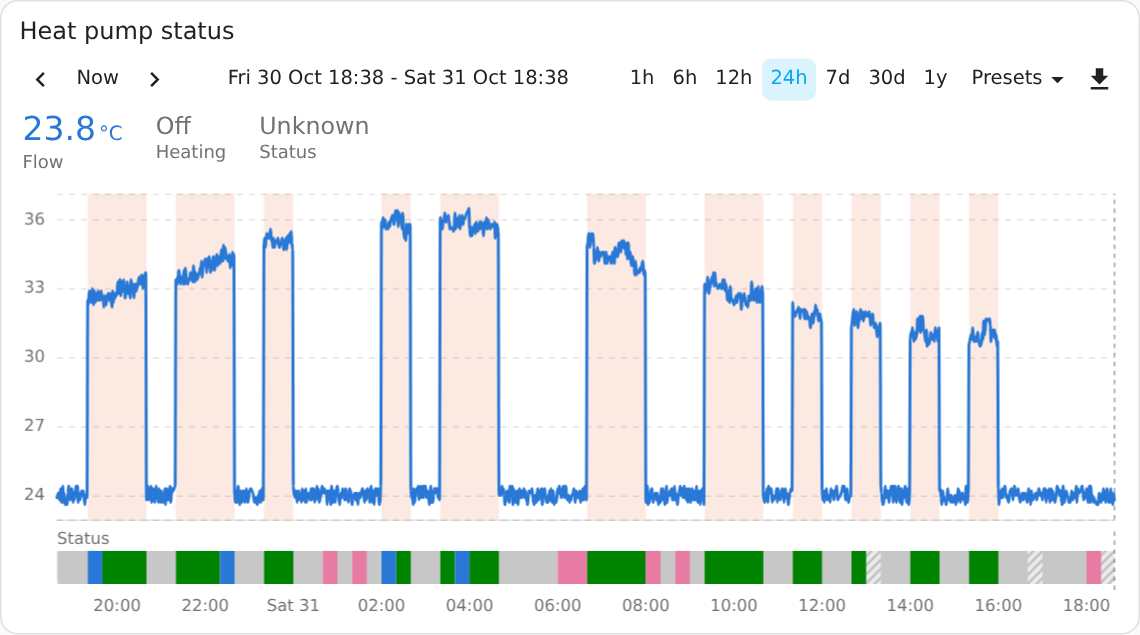
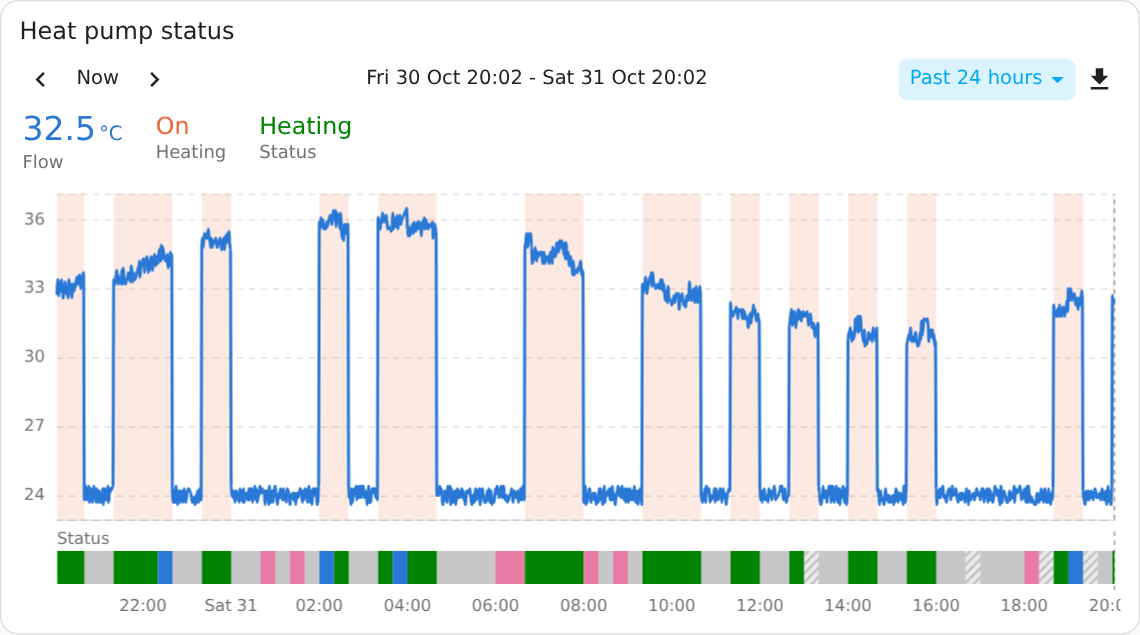
0.7.0: quick ranges always in the Presets menu; licence GPL-3.0-only
The quick ranges (1h, 6h ... 1y) now always sit at the top of the
Presets menu, at any card width and with the dates on or off, and the
menu button names the window picked. The editor calls them Quick ranges.
Screenshots retaken. The licence is now GPL-3.0-only.

diff --git a/src/chart-explorer-card.ts b/src/chart-explorer-card.ts
@@ -52,7 +52,7 @@ import { buttonLabel, menuLabel, presetName, t, type StringKey } from './localiz
 import { icon } from './ui/icons';
 import { cardStyles } from './ui/styles';
 
-const VERSION = '0.6.2';
+const VERSION = '0.7.0';
 // The chart's inner edge and ECharts' gap between numbers and the plot, in pixels.
 const GRID_EDGE = 4;
 const LABEL_MARGIN = 8;
@@ -151,7 +151,7 @@ export class ChartExplorerCard extends LitElement {
   private _customFrom = '';
   private _customTo = '';
   private _customError?: string;
-  /** 0 full toolbar, 1 two-line label, 2 quick ranges in the menu, 3 label may be cut short. */
+  /** 0 full toolbar, 1 two-line label, 2 label may be cut short. */
   private _toolbarLevel = 0;
   private readonly _levelWidths: number[] = [];
 
@@ -1532,14 +1532,14 @@ export class ChartExplorerCard extends LitElement {
 
   /**
    * Keeps the toolbar on one row. When it does not fit, the label first goes
-   * onto two lines, then the quick ranges move into the menu, then the label
-   * may be cut short. Each step remembers the width it needed, to step back.
+   * onto two lines, then it may be cut short. Each step remembers the width it
+   * needed, to step back.
    */
   private _checkToolbar(): void {
     const bar = this.renderRoot.querySelector<HTMLElement>('.toolbar');
     if (!bar || !bar.clientWidth) return;
     const available = bar.clientWidth;
-    if (bar.scrollWidth > available + 1 && this._toolbarLevel < 3) {
+    if (bar.scrollWidth > available + 1 && this._toolbarLevel < 2) {
       this._levelWidths[this._toolbarLevel] = bar.scrollWidth;
       this._toolbarLevel++;
       this.requestUpdate();
@@ -1759,7 +1759,7 @@ export class ChartExplorerCard extends LitElement {
     const bottom = config.toolbarPosition === 'bottom';
     const show = config.toolbar;
     const anyControl =
-      show.arrows || show.now || show.quickRanges || show.presets || show.download || config.showRangeLabel;
+      show.arrows || show.now || show.presets || show.download || config.showRangeLabel;
     const toolbar = anyControl && config.toolbarPosition !== 'off' ? this._renderToolbar(config) : nothing;
     const values = this._renderValues(config);
     const below = config.valuesPlacement === 'below';
@@ -1798,16 +1798,16 @@ export class ChartExplorerCard extends LitElement {
     const shown = this._preview ?? w;
     const inclusive = !this._preview && spec ? labelEndIsInclusive(spec) : false;
     const [from, to] = shown ? this._times.rangeParts(shown, inclusive, Date.now()) : ['', ''];
-    // The toolbar buttons and the menu may list lengths and presets alike.
-    const activeMenuItem = config.presets.find((item) => this._isActive(item));
-    const activePreset = spec ? presetOf(spec) : undefined;
-    const menuText = activeMenuItem ? menuLabel(activeMenuItem) : activePreset ? presetName(activePreset) : t('presets');
     const level = this._toolbarLevel;
     const show = config.toolbar;
-    // Without the menu, quick ranges cannot fold into it; they scroll sideways instead.
-    const classes =
-      `toolbar${level >= 1 ? ' stacked' : ''}${this._quickInMenu(config) ? ' folded' : ''}` +
-      `${level >= 3 ? ' shrink' : ''}${show.presets ? '' : ' no-menu'}`;
+    // The menu holds the quick ranges and the entries, which may list lengths and presets alike;
+    // its button names the window picked from either.
+    const activeMenuItem = [...(show.quickRanges ? config.quickRanges : []), ...config.presets].find((item) =>
+      this._isActive(item),
+    );
+    const activePreset = spec ? presetOf(spec) : undefined;
+    const menuText = activeMenuItem ? menuLabel(activeMenuItem) : activePreset ? presetName(activePreset) : t('presets');
+    const classes = `toolbar${level >= 1 ? ' stacked' : ''}${level >= 2 ? ' shrink' : ''}`;
     return html`
       <div class="toolbar-wrap">
         <div class=${classes}>
@@ -1827,9 +1827,6 @@ export class ChartExplorerCard extends LitElement {
                 <span>${from} -</span> <span>${to}</span>
               </button>`
             : html`<span class="label placeholder" aria-hidden="true"><span>${from} -</span> <span>${to}</span></span>`}
-          ${show.quickRanges
-            ? html`<div class="quick">${config.quickRanges.map((item) => this._renderButton(item))}</div>`
-            : nothing}
           ${show.presets
             ? html`<button
                 class="with-icon ${activeMenuItem || activePreset ? 'active' : ''}"
@@ -1860,31 +1857,24 @@ export class ChartExplorerCard extends LitElement {
     `;
   }
 
-  private _renderButton(item: RangeItem, inMenu = false) {
+  /** A quick range at the top of the Presets menu, such as "24h". */
+  private _renderButton(item: RangeItem) {
     return html`<button
       class=${this._isActive(item) ? 'active' : ''}
-      role=${inMenu ? 'menuitem' : nothing}
+      role="menuitem"
       @click=${() => this._applySpec(rangeItemSpec(item), true)}
     >
       ${buttonLabel(item)}
     </button>`;
   }
 
-  /**
-   * The quick ranges sit in the Presets menu when the toolbar has no room for
-   * them, and always while the dates are hidden, so their space stays empty.
-   */
-  private _quickInMenu(config: CardConfig): boolean {
-    return config.toolbar.presets && (this._toolbarLevel >= 2 || !config.showRangeLabel);
-  }
-
   private _renderPresetMenu(config: CardConfig) {
     return html`
       <div class="menu" role="menu">
-        ${this._quickInMenu(config) && config.toolbar.quickRanges && config.quickRanges.length
+        ${config.toolbar.quickRanges && config.quickRanges.length
           ? html`<div class="menu-top">
               <div class="section">${t('quick_ranges')}</div>
-              <div class="chips">${config.quickRanges.map((item) => this._renderButton(item, true))}</div>
+              <div class="chips">${config.quickRanges.map((item) => this._renderButton(item))}</div>
             </div>`
           : nothing}
         <div class="menu-list">

diff --git a/src/editor/schema.ts b/src/editor/schema.ts
@@ -338,7 +338,7 @@ export const LABELS: Record<string, string> = {
   show_arrows: 'Previous and next arrows',
   show_now_button: 'Now button',
   show_range_label: 'Dates and times',
-  show_quick_ranges: 'Toolbar buttons (1h, 6h…)',
+  show_quick_ranges: 'Quick ranges (1h, 6h…)',
   show_presets_menu: 'Presets menu',
   show_download: 'Download button',
   drag_action: 'Dragging the chart',
@@ -393,15 +393,16 @@ export const HELPERS: Record<string, string> = {
   timeline_labels: 'The state, such as Standby, inside each part of a strip that is wide enough.',
   type: 'Automatic draws numbers as lines (bars in a bar chart) and text or on/off states, such as a heat pump status, as a timeline strip under the chart. A band shades the chart behind the lines while the entity is on.',
   on_states: 'Leave empty to shade every state except off, idle, standby and the like.',
-  default_range: 'The window the card opens with: any toolbar button, menu entry or preset.',
+  default_range: 'The window the card opens with: any quick range, menu entry or preset.',
   toolbar_position: 'Where the time controls and the download button sit.',
   height: 'Height of the chart area in pixels, without the toolbar and values.',
   values_placement: 'Above or below the chart.',
   value_position: 'Where each value sits relative to its entity name.',
   name_align: 'How each name lines up with its value when one sits above the other.',
   faded_opacity: 'How visible a line stays after you tap its name.',
-  show_range_label: 'The window shown, such as Mon 26 Oct 00:00 - Sun 1 Nov 23:59. Turned off, its space stays empty for a clean look, and the toolbar buttons (1h, 6h…) move to the top of the Presets menu. Custom… stays in that menu too.',
-  show_presets_menu: 'Also holds Custom… and the toolbar buttons when the card is narrow or the dates and times are off. Without it they stay in the toolbar and scroll sideways.',
+  show_range_label: 'The window shown, such as Mon 26 Oct 00:00 - Sun 1 Nov 23:59. Turned off, its space stays empty for a clean look; Custom… stays in the Presets menu.',
+  show_quick_ranges: 'At the top of the Presets menu.',
+  show_presets_menu: 'Holds the quick ranges (1h, 6h…), the menu entries and Custom…; turned off, none of them are shown.',
   show_download: 'CSV and PNG export.',
   drag_action: 'Pinch, or Ctrl + mouse wheel, zooms either way, and Shift + drag selects a part. Double-click or double-tap goes back to the window picked in the toolbar.',
   values_align: 'How the entities spread across the card. Spread puts the first and last at the edges; evenly spaced leaves the same room around each.',

diff --git a/src/editor/editor.ts b/src/editor/editor.ts
@@ -247,7 +247,7 @@ export class ChartExplorerCardEditor extends LitElement {
           ${this._form.chart_type === 'bar' || this._entities.some((item) => typeof item !== 'string' && item.type === 'bar')
             ? this._group('bars', 'Bars', this._settingsForm(BARS_SCHEMA))
             : nothing}
-          ${this._group('toolbar-buttons', 'Toolbar buttons', this._renderRangeList('quick_ranges'))}
+          ${this._group('toolbar-buttons', 'Quick ranges', this._renderRangeList('quick_ranges'))}
           ${this._group('menu-entries', 'Menu entries', this._renderRangeList('presets'))}
           ${this._group('toolbar', 'Toolbar', this._settingsForm(LAYOUT_SCHEMA))}
         `;
@@ -301,7 +301,7 @@ export class ChartExplorerCardEditor extends LitElement {
     `;
   }
 
-  // ---- Toolbar buttons and menu entries ----
+  // ---- Quick ranges and menu entries ----
 
   private _lists(key: RangeListKey) {
     const unusedKey = key === 'quick_ranges' ? 'unused_quick_ranges' : 'unused_presets';
@@ -381,7 +381,7 @@ export class ChartExplorerCardEditor extends LitElement {
       <div class="range-list" data-list=${key}>
         <div class="list-help">
           ${key === 'quick_ranges'
-            ? 'Buttons in the toolbar, each a rolling window that ends now. Tap one to show or hide it.'
+            ? 'Buttons at the top of the Presets menu, each a rolling window that ends now. Tap one to show or hide it.'
             : 'Entries in the Presets menu, above Custom. Tap one to show or hide it. Next lengths run from now into the future, for forecasts.'}
           Lengths you add appear after these in a different shade; × deletes them.
         </div>

diff --git a/src/ui/styles.ts b/src/ui/styles.ts
@@ -104,16 +104,6 @@ export const cardStyles = css`
     overflow: hidden;
     text-overflow: ellipsis;
   }
-  .quick {
-    display: flex;
-    flex: none;
-  }
-  .quick button {
-    padding: 0 6px;
-  }
-  .folded .quick {
-    display: none;
-  }
 
   /* Menus and the custom range */
   .menu,
@@ -258,12 +248,6 @@ export const cardStyles = css`
   .stacked .label.placeholder {
     flex-direction: column;
     font-size: 12px;
-  }
-  .no-menu .quick {
-    flex: 0 1 auto;
-    min-width: 0;
-    overflow-x: auto;
-    scrollbar-width: none;
   }
   .pie-name {
     position: absolute;

diff --git a/docs/options.md b/docs/options.md
@@ -11,7 +11,7 @@ Edit the card from the dashboard editor like any built-in card. The editor has f
 | Tab | What it holds |
 |---|---|
 | Entities | A search box at the top adds an entity. Below it, the entities in order, each with its colour: drag the handle to reorder (or focus it and use the arrow keys), the pencil opens the entity's settings in one scroll, and the bin removes. The entity page shows the settings for how the entity is drawn (Draw as): line shape, type, width and fill for lines; the states that shade a band; a colour picker per state for timelines and bands (states from the last 30 days, and any you add); then name, colour, show in the values row, show the name, show unit, unit, decimal places, scale and the value drawn on long windows. |
-| General | Title, chart type, starting window and what dragging the chart does, then folding groups: Bars (length of each bar, stacking; shown for bar charts), Toolbar buttons (the seven standard lengths; tap to show or hide), Menu entries (the nine presets, the same way) and Toolbar (position top, bottom or off, and a switch for each control). Toolbar buttons add lengths with "Past [number] [unit] Add length"; menu entries choose Past or Next, so a length can run into the future ("Next day"). Added lengths follow the standard ones in an amber shade, switch on and off, and × deletes them. |
+| General | Title, chart type, starting window and what dragging the chart does, then folding groups: Bars (length of each bar, stacking; shown for bar charts), Quick ranges (the seven standard lengths at the top of the Presets menu; tap to show or hide), Menu entries (the nine presets, the same way) and Toolbar (position top, bottom or off, and a switch for each control). Quick ranges add lengths with "Past [number] [unit] Add length"; menu entries choose Past or Next, so a length can run into the future ("Next day"). Added lengths follow the standard ones in an amber shade, switch on and off, and × deletes them. |
 | Visual | Folding groups: values (above or below the chart, row alignment, value position, name alignment, value and name text size, space between values, show names), chart (faded line opacity, the now line, floating tooltip, rescaling), height and space inside the chart, timeline strips (strip height, names above the strips, states written inside), x-axis (time labels, their size, vertical grid lines) and y-axis (value labels, their size, units above the axes, starting at zero, horizontal grid lines). |
 | Advanced | Lightweight mode and animations, data sources, the value drawn on long windows for every entity, CSV export. Each setting has an explanation under it. |
 
@@ -30,15 +30,15 @@ The editor saves only what differs from the defaults, so the YAML stays short, a
 | `timeline_names` | `true` | The entity name above each strip. |
 | `timeline_labels` | `true` | The state written inside each part of a strip that is wide enough. |
 | `default_range` | `24h` | Window when the card opens: a quick range (`6h`, `7d`) or a preset (`today`, `this_week`, `last_month` …). |
-| `quick_ranges` | `[1h, 6h, 12h, 24h, 7d, 30d, 1y]` | Toolbar buttons: lengths (a number followed by `m`, `h`, `d`, `w`, `mo` or `y`, such as `45m` or `6d`) or presets. |
+| `quick_ranges` | `[1h, 6h, 12h, 24h, 7d, 30d, 1y]` | Quick ranges at the top of the Presets menu: lengths (a number followed by `m`, `h`, `d`, `w`, `mo` or `y`, such as `45m` or `6d`) or presets. |
 | `unused_quick_ranges`, `unused_presets` | none | Lengths you added in the editor and switched off; the editor keeps them so you can switch them on again. The card ignores them. |
 | `presets` | all nine presets | Menu entries, the same kinds as `quick_ranges`. A length with a plus sign, such as `+1d` ("Next day"), starts now and runs into the future, for forecasts. The presets are `today`, `yesterday`, `tomorrow`, `this_week`, `last_week`, `this_month`, `last_month`, `this_year` and `last_year`. |
 | `toolbar_position` | `top` | `top`, `bottom` or `off`. |
-| `show_range_label` | `true` | The dates and times in the middle of the toolbar. Turned off, their space stays empty, so nothing else moves into it, and the toolbar buttons (1h, 6h…) move to the top of the Presets menu at any card width. |
+| `show_range_label` | `true` | The dates and times in the middle of the toolbar. Turned off, their space stays empty, so nothing else moves into it. |
 | `show_arrows` | `true` | The previous and next arrows. |
 | `show_now_button` | `true` | The Now button. |
-| `show_quick_ranges` | `true` | The toolbar buttons (1h, 6h…). |
-| `show_presets_menu` | `true` | The Presets menu, which also holds Custom… and the toolbar buttons when the card is narrow or the dates and times are off. Without it they stay in the toolbar and scroll sideways. |
+| `show_quick_ranges` | `true` | The quick ranges (1h, 6h…) at the top of the Presets menu. |
+| `show_presets_menu` | `true` | The Presets menu, which holds the quick ranges, the menu entries and Custom…; turned off, none of them are shown. |
 | `show_download` | `true` | The download button. With every toolbar control off, the toolbar row goes. |
 | `drag_action` | `pan` | What dragging across the chart does: `pan` moves the time window, `zoom` selects a part to zoom into. |
 | `values_placement` | `above` | The values row `above` or `below` the chart. |

diff --git a/README.md b/README.md
@@ -9,7 +9,7 @@ A Home Assistant dashboard card for exploring history: lines, stacked areas, bar
 ## Features
 
 - **Eight ways to draw history:** lines, stacked areas, bars per hour, day, week or month, pie, donut, heatmaps of numbers or of states, and timeline strips or shaded bands for entities such as a heat pump status or a door.
-- **Time controls in one row:** buttons from 1 hour to 1 year, presets such as Today or Last month, previous and next, and a custom range.
+- **Time controls in one row:** previous and next, Now, and a Presets menu with quick ranges from 1 hour to 1 year, presets such as Today or Last month, and a custom range.
 - **Drag to move, pinch to zoom:** the card loads finer data as you zoom in; a double-tap goes back.
 - **Values that follow the cursor:** each entity's value sits above the chart in its colour; tap a name to fade that entity.
 - **Export:** a CSV of exactly what is shown, or a PNG with the title and legend.
@@ -46,7 +46,7 @@ A picture and an example for each: [Chart types](docs/chart-types.md).
 1. Download both files from the [latest release](https://github.com/corautem/chart-explorer-card/releases/latest): `chart-explorer-card.js` (the card) and `chart-explorer-card-editor.js` (the visual editor, loaded only when you edit a card).
 2. Copy them into your Home Assistant configuration folder, in `/config/www/chart-explorer-card/`.
 3. In Home Assistant, open **Settings → Dashboards**, then the three-dot menu → **Resources** → **Add resource**. (The Resources entry appears only with **Advanced mode** on in your user profile.)
-   - URL: `/local/chart-explorer-card/chart-explorer-card.js?v=0.6.2`
+   - URL: `/local/chart-explorer-card/chart-explorer-card.js?v=0.7.0`
    - Type: **JavaScript module**
 4. Reload the browser.
 
@@ -73,7 +73,7 @@ The editor saves only what differs from the defaults, so the YAML stays short. E
 
 ## Using the card
 
-- **Toolbar:** ‹ › move the window by its own length, Now returns to the present, the buttons and the Presets menu pick a window, the dates open a custom range, and the download button saves a CSV or PNG.
+- **Toolbar:** ‹ › move the window by its own length, Now returns to the present, the Presets menu picks a window (quick ranges at its top), the dates open a custom range, and the download button saves a CSV or PNG.
 - **Moving and zooming:** drag sideways to move through time; pinch, or hold Ctrl and use the mouse wheel, to zoom; hold Shift and drag to zoom into a part; double-click or double-tap to go back.
 - **Values:** hover over or tap the chart to see the readings at that moment; tap a value for the entity's details; tap a name to fade the entity and leave it out of the CSV.
 
@@ -170,6 +170,6 @@ I build Chart Explorer Card in my spare time. If it's useful to you, a star on G
 
 Copyright (C) 2026 the Chart Explorer Card contributors.
 
-Chart Explorer Card is free software: you can redistribute it and/or modify it under the terms of the GNU General Public License as published by the Free Software Foundation, either version 3 of the License, or (at your option) any later version. It is distributed in the hope that it will be useful, but without any warranty; see the [GNU General Public License](LICENSE) for details.
+Chart Explorer Card is free software: you can redistribute it and/or modify it under the terms of version 3 of the GNU General Public License as published by the Free Software Foundation (GPL-3.0-only). It is distributed in the hope that it will be useful, but without any warranty; see the [GNU General Public License](LICENSE) for details.
 
 The built files include [Apache ECharts](https://github.com/apache/echarts) (Apache License 2.0, with code from [d3](https://github.com/d3/d3) under the BSD 3-Clause License), [ZRender](https://github.com/ecomfe/zrender) and [Lit](https://github.com/lit/lit) (BSD 3-Clause License), [tslib](https://github.com/microsoft/tslib) (0BSD) and icon paths from [Material Design Icons](https://github.com/Templarian/MaterialDesign) (Apache License 2.0). Their licence texts are in [THIRD-PARTY-NOTICES.md](THIRD-PARTY-NOTICES.md), and a short notice sits at the top of each built file.

diff --git a/docs/usage.md b/docs/usage.md
@@ -11,11 +11,10 @@ One row, at the top or bottom of the card (`toolbar_position`).
 | ‹ › | Moves the window by its own length. Calendar windows move by calendar period (This month goes back to the whole of last month); rolling, custom and zoomed windows move by their exact duration. Stepping forward onto the present makes a rolling window live again. |
 | Now | A window of the same length ending now, or the current period for a calendar preset. |
 | Range label | The window shown, for example `Mon 26 Oct 00:00 - Sun 1 Nov 23:59`. Click it to type a custom range. |
-| 1h 6h 12h 24h 7d 30d 1y | Toolbar buttons: rolling windows ending now, or presets such as Today. Set them with `quick_ranges`. |
-| Presets | Menu entries: by default Today, Yesterday, Tomorrow, This week, Last week, This month, Last month, This year and Last year. Set them with `presets`; lengths show as "Past 6 days". Custom… at the end opens From and To date-and-time fields. |
+| Presets | A menu. At its top, the quick ranges 1h 6h 12h 24h 7d 30d 1y: rolling windows ending now (set them with `quick_ranges`). Below them the menu entries, by default Today, Yesterday, Tomorrow, This week, Last week, This month, Last month, This year and Last year (set them with `presets`; lengths show as "Past 6 days"). Custom… at the end opens From and To date-and-time fields. The button shows the window picked, such as "Past 24 hours" or "Today". |
 | Download | CSV of what is shown, or a PNG image. |
 
-On a narrow card the toolbar stays on one row: first the range label goes onto two lines, then the toolbar buttons move into the Presets menu, then the label is cut short. With the range label turned off, its space stays empty and the toolbar buttons sit at the top of the Presets menu at any width. The menu stays inside the card: the toolbar buttons stay at its top and the entries scroll.
+On a narrow card the toolbar stays on one row: first the range label goes onto two lines, then it is cut short. With the range label turned off, its space stays empty. The menu stays inside the card: the quick ranges stay at its top and the entries scroll.
 
 Weeks start on the day set in your Home Assistant profile (**First day of the week**). With "Auto", the card follows the browser's language settings.
 
